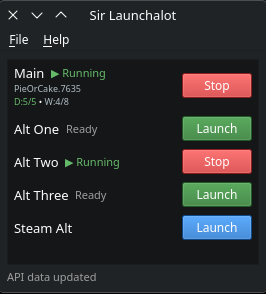
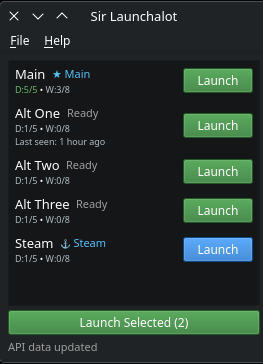
Refresh the README screenshots
Replace the stale Edit Account shot with current captures of the addon
picker and the GW2 API tab, and update the main window. Each screenshot
now has a line saying what it shows.

diff --git a/README.md b/README.md
@@ -10,8 +10,17 @@ If an LLM creating software upsets you, then perhaps this repo isn't for you. Mo
 
 ## Screenshots
 
+The main window — every account, its Wizard's Vault progress, and one button to launch the ones you play together.
+
 ![Main Window](screenshots/main_window.png)
-![Edit Account](screenshots/edit.png)
+
+Pick which of your main's addons an alt runs, and which settings come across with them.
+
+![Addons](screenshots/addons.png)
+
+Add a GW2 API key to show account name, Wizard's Vault progress, and last seen time.
+
+![GW2 API](screenshots/api.png)
 
 ## Features
 
